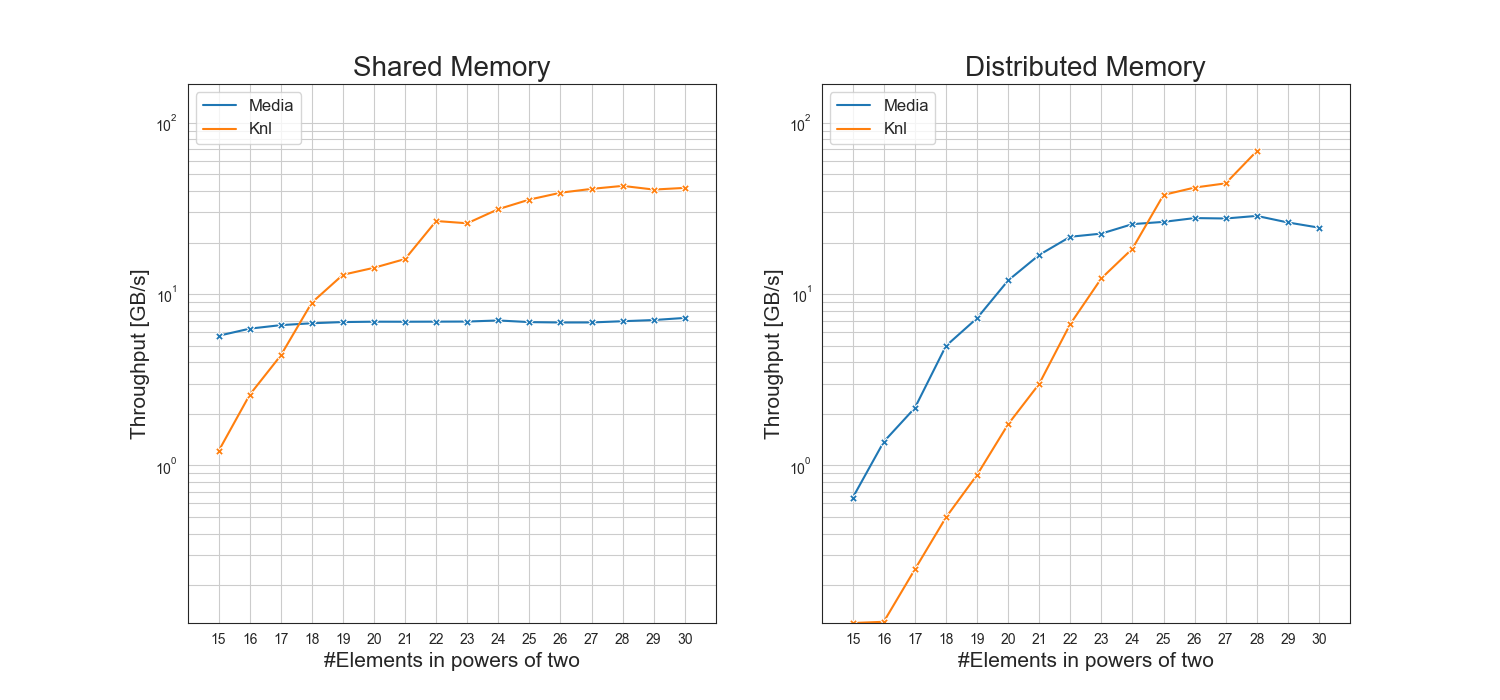
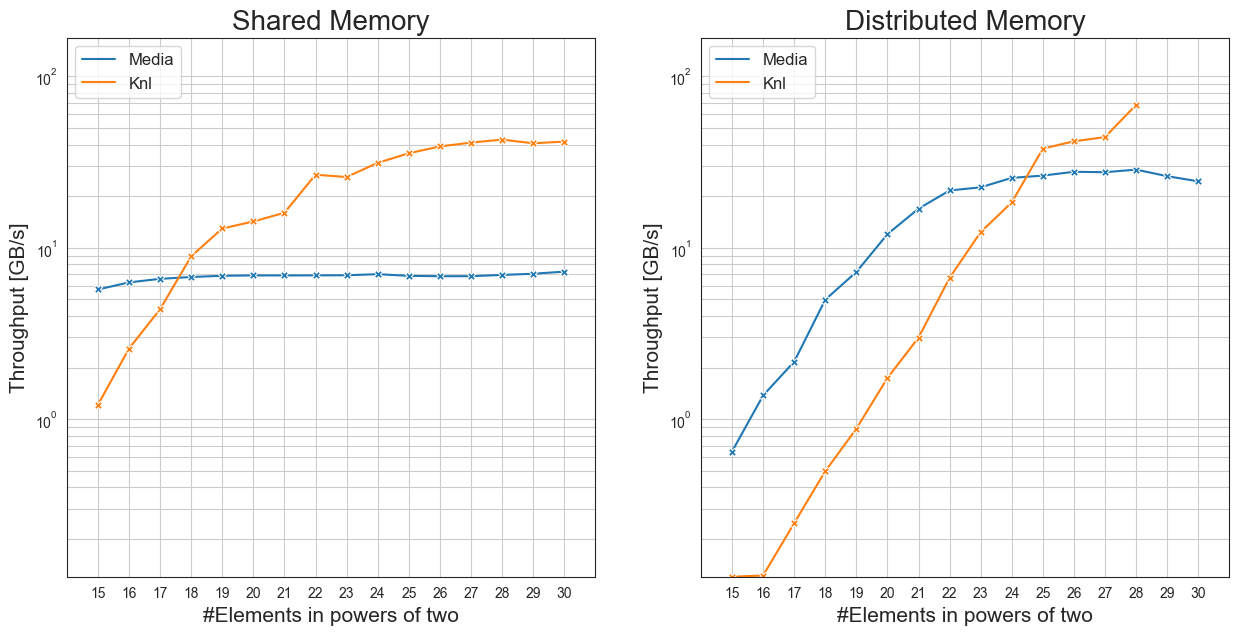
remove padding from plots

diff --git a/reduction/plot_reduction.py b/reduction/plot_reduction.py
@@ -23,9 +23,9 @@ def set_ax(ax,min,max):
                 a.set_yscale('log')
                 a.legend(loc=2,prop={'size': 12})
                 if i == 0:
-                        a.set_title("Shared Memory",fontsize=20)
+                        a.set_title("Shared Memory (OpenMP)",fontsize=20)
                 else:
-                        a.set_title("Distributed Memory",fontsize=20)
+                        a.set_title("Distributed Memory (OpenMP)",fontsize=20)
                 a.grid(True,which="both",ls="-")
 
 def plot_df(df1,df2):
@@ -35,20 +35,20 @@ def plot_df(df1,df2):
         sns.lineplot(ax=axes[0],data=df1,x=[x for x in range(15,31)]*2,y='Throughput[GB/s]',hue='Partition',marker='X',legend=True)
         sns.lineplot(ax=axes[1],data=df2,x=[x for x in range(15,31)]*2,y='Throughput[GB/s]',hue='Partition',marker='X',legend=True)
         set_ax(axes,global_min,global_max)
-        fig.savefig('reduction.png')
+        fig.savefig('reduction_openmp.png', bbox_inches='tight')
 
 if __name__ == "__main__":
 #       Usage: Update the path to the CSV files accordingly.
 #       Adjust the axes settings as needed (set_ax).
-        skl_shared = 'reduction-shared-skl-upcxx.csv'
-        knl_shared = 'reduction-shared-knl-upcxx.csv'
-        skl_dist = 'reduction-dist-skl-upcxx.csv'
-        knl_dist = 'reduction-dist-knl-upcxx.csv'
+#        skl_shared = 'csv/reduction-shared-skl-upcxx.csv'
+#        knl_shared = 'csv/reduction-shared-knl-upcxx.csv'
+#        skl_dist = 'csv/reduction-dist-skl-upcxx.csv'
+#        knl_dist = 'csv/reduction-dist-knl-upcxx.csv'
 
-#        skl_shared = 'reduction-shared-skl-upcxx-openmp.csv'
-#        knl_shared = 'reduction-shared-knl-upcxx-openmp.csv'
-#        skl_dist = 'reduction-dist-skl-upcxx-openmp.csv'
-#        knl_dist = 'reduction-dist-knl-upcxx-openmp.csv'
+        skl_shared = 'csv/reduction-shared-skl-upcxx-openmp.csv'
+        knl_shared = 'csv/reduction-shared-knl-upcxx-openmp.csv'
+        skl_dist = 'csv/reduction-dist-skl-upcxx-openmp.csv'
+        knl_dist = 'csv/reduction-dist-knl-upcxx-openmp.csv'
 
         skl = build_df(skl_shared,'Media')
         knl = build_df(knl_shared,'Knl')
